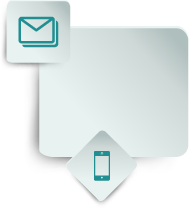
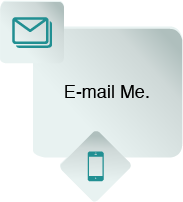
shadows

diff --git a/style.css b/style.css
@@ -585,7 +585,7 @@ a {
 }
 
 #email_me {
-	background:url(imgs/contact/emailtext.png) center center no-repeat, url(imgs/contact/email.png) center center no-repeat;
+	background:url(imgs/contact/email.png) center center no-repeat;
 	width:225px;
 	height:250px;
 	float:left;
